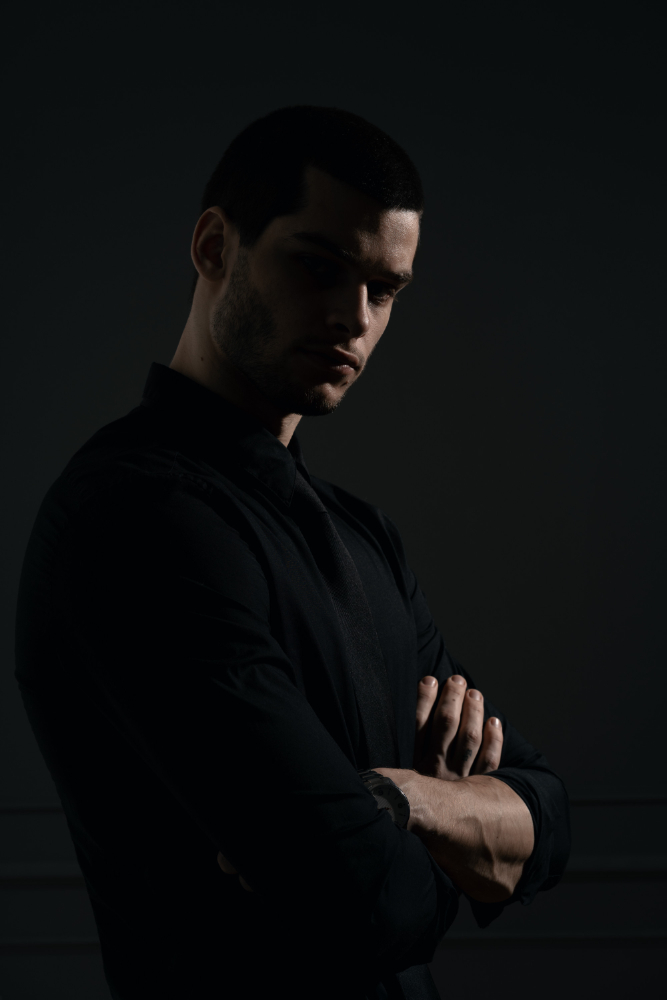
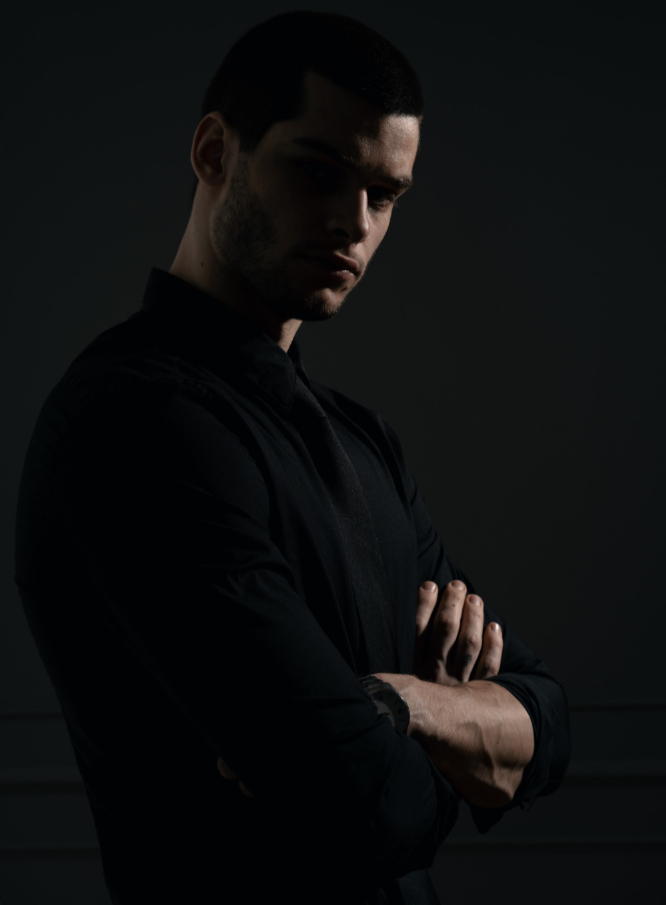
commit

diff --git a/assets/css/main.css b/assets/css/main.css
@@ -12060,6 +12060,7 @@ body {
 
 .theme-para {
   font-size: clamp(1.2rem, 2vw, 1.5rem);
+  color: rgb(167, 167, 167);
 }
 
 .theme-button {
@@ -12096,8 +12097,11 @@ body {
   z-index: 100;
   background-color: rgb(12, 12, 12);
 }
+.main-navbar img {
+  height: clamp(2rem, 5vw, 3rem);
+}
 .main-navbar ul li:not(:last-child) {
-  margin-right: 3rem;
+  margin-right: 2.5rem;
 }
 .main-navbar ul li a {
   color: #fff;
@@ -12109,7 +12113,7 @@ section.main-hero-section {
   min-height: 100vh;
   display: flex;
   align-items: center;
-  padding: 5rem 0;
+  padding: 3rem 0;
   margin-top: 4.5rem;
 }
 section.main-hero-section .hero-inner {
@@ -12137,7 +12141,7 @@ section.main-hero-section .hero-inner video {
   height: 100%;
   border-radius: 20px;
   border: 1px solid rgb(167, 167, 167);
-  padding: 2rem;
+  padding: 3rem;
   display: flex;
   flex-direction: column;
   align-items: flex-start;
@@ -12145,14 +12149,16 @@ section.main-hero-section .hero-inner video {
 .main-hero-left figure {
   aspect-ratio: 1/1.1;
   width: 100%;
-  border-radius: 20px;
   overflow: hidden;
 }
 .main-hero-left figure img {
+  border-radius: 20px;
   width: 100%;
   height: 100%;
   -o-object-fit: cover;
      object-fit: cover;
+  -o-object-position: top;
+     object-position: top;
 }
 .main-hero-left .info {
   color: rgb(167, 167, 167);
@@ -12174,20 +12180,47 @@ section.main-hero-section .hero-inner video {
 .main-hero-right .main-hero-info h1 span, .main-hero-right .main-hero-info .h1 span {
   display: block;
 }
-.main-hero-right .main-hero-info p {
-  color: rgb(167, 167, 167);
-}
 .main-hero-right .main-hero-info .main-hero-section-navigation {
   display: flex;
   gap: 2rem;
 }
 
+section.resume-section .resume-wrapper li {
+  display: flex;
+  align-items: center;
+  justify-content: space-between;
+  position: relative;
+  color: rgb(167, 167, 167);
+  padding-bottom: 2rem;
+  font-size: clamp(1.4rem, 2vw, 2.2rem);
+  text-transform: capitalize;
+}
+section.resume-section .resume-wrapper li:not(:last-child) {
+  margin-bottom: 2rem;
+}
+section.resume-section .resume-wrapper li::after {
+  position: absolute;
+  content: "";
+  bottom: 0;
+  left: 0;
+  width: 100%;
+  height: 2px;
+  background-color: rgb(167, 167, 167);
+}
+
 @media (max-width: 991px) {
   .main-hero-left figure {
-    aspect-ratio: 2/1.3;
+    aspect-ratio: 1/0.7;
   }
-  .main-hero-left figure img {
-    -o-object-position: top;
-       object-position: top;
+  .main-hero-right {
+    margin-top: 6rem;
+  }
+}
+@media (max-width: 768px) {
+  section.resume-section .resume-wrapper li {
+    display: block;
+  }
+  section.resume-section .resume-wrapper li span {
+    display: block;
   }
 }/*# sourceMappingURL=main.css.map */

diff --git a/assets/css/main.scss b/assets/css/main.scss
@@ -11,10 +11,14 @@
     z-index: 100;
     background-color: $navbar-color;
 
+    img{
+    height: clamp(2rem, 5vw, 3rem);
+    }
+
     ul{
         li{
             &:not(:last-child){
-                margin-right: 3rem;
+                margin-right: 2.5rem;
             }
             a{
                 color: $white-color;
@@ -31,7 +35,7 @@ section.main-hero-section {
     min-height: 100vh;
     display: flex;
     align-items: center;
-    padding: 5rem 0;
+    padding: 3rem 0;
     margin-top: 4.5rem;
 
     .hero-inner{
@@ -60,7 +64,7 @@ section.main-hero-section {
   height: 100%;
   border-radius: 20px;
   border: 1px solid $para-text-color;;
-  padding: 2rem;
+  padding: 3rem;
   display: flex;
   flex-direction: column;
   align-items: flex-start;
@@ -68,12 +72,13 @@ section.main-hero-section {
   figure {
     aspect-ratio: 1/1.1;
     width: 100%;
-    border-radius: 20px;
     overflow: hidden;
     img {
+          border-radius: 20px;
       width: 100%;
       height: 100%;
       object-fit: cover;
+      object-position: top;
     }
   }
   .info {
@@ -100,15 +105,42 @@ section.main-hero-section {
         display: block;
       }
     }
-    p{
-            color: $para-text-color;
-    }
     .main-hero-section-navigation{
         display: flex;
         gap: 2rem;
     }
   }
 }
+
+
+section.resume-section{
+.resume-wrapper{
+  li{
+    display: flex;
+    align-items: center;
+    justify-content: space-between;
+    position: relative;
+    color: $para-text-color;
+    padding-bottom: 2rem;
+    font-size: clamp(1.4rem, 2vw, 2.2rem);
+    text-transform: capitalize;
+    &:not(:last-child){
+      margin-bottom: 2rem;
+    }
+
+    &::after{
+      position: absolute;
+      content: '';
+      bottom: 0;
+      left: 0;
+      width: 100%;
+      height: 2px;
+      background-color: $para-text-color;
+    }
+  }
+}
+}
+
 
 
 

diff --git a/index.html b/index.html
@@ -3,7 +3,7 @@
   <head>
     <meta charset="utf-8" />
     <meta name="viewport" content="width=device-width, initial-scale=1" />
-    <title>Bootstrap demo</title>
+    <title>Personal Portfolio</title>
     <link rel="stylesheet" href="assets/css/main.css" />
   </head>
   <body>
@@ -12,7 +12,7 @@
         <nav class="navbar navbar-expand-lg main-navbar">
           <div class="container container-lg">
             <a class="navbar-brand" href="#"
-              ><img class="site-logo" src="assets/images/main-logo.svg" alt=""
+              ><img class="site-logo" src="assets/images/main-logo.png" alt=""
             /></a>
             <button
               class="navbar-toggler"
@@ -152,9 +152,8 @@
                 <div class="col-inner">
                   <div class="main-hero-info">
                     <h4 class="section-starter-info-box">hello</h4>
-                    <h1 class="pb-3 theme-gradient-text-white">
-                      Helping Businesses<span>Grow Through</span
-                      ><span class="theme-gradient-text-purple">Digital Innovation</span>
+                    <h1 class="pb-3 theme-gradient-text-white">Engineering Web<span>Applications That</span
+                      ><span class="theme-gradient-text-purple">Power Businesses</span>
                     </h1>
                     <p class="theme-para">
                       A Digital Designer and Web Developer based in Los Angeles.
@@ -182,15 +181,36 @@
           <!-- /.container -->
         </section>
         <!-- /.main-hero-section -->
-        <div class="about-section">
-          <div class="container container-lg">
+         <section class="about-section section-space">
+           <div class="container container-lg">
                     <h4 class="section-starter-info-box">about</h4>
-                    <div class="section-heading">
+                    <div class="section-heading pb-3">
                       <h3 class="theme-gradient-text-white">My Journey & <span class="theme-gradient-text-purple">Vision</span></h3>
                     </div><!-- /.section-heading -->
+                    <p class="theme-para pb-4">Hi, I’m Muhammad Qasim — a Full Stack Developer focused on building scalable web applications using modern technologies like React and Django. I enjoy turning ideas into real, functional products that solve practical problems. My strength lies in combining frontend experience with backend logic to build smooth, efficient, and user-friendly digital systems.</p>
+                    <p class="theme-para">Over time, I’ve worked on different personal and project-based applications including eCommerce platforms, rental systems, and AI-powered tools. I care about writing clean code, building secure systems, and continuously improving performance and user experience.</p>
           </div>
-        </div>
-        <!-- /.about-section -->
+         </section><!-- /.about-section -->
+         <section class="resume-section section-space">
+           <div class="container container-lg">
+                                <h4 class="section-starter-info-box">resume</h4>
+                    <div class="section-heading pb-5">
+                      <h3 class="theme-gradient-text-white">Creative Thinker <span class="theme-gradient-text-purple">Designer, Innovator</span></h3>
+                    </div><!-- /.section-heading -->
+                    <ul class="resume-wrapper">
+                      <li><span>graphic designing</span><span>tabontech</span><span>Feb 2022 - April 2022</span></li>
+                      <li><span>Frontend Development</span><span>SuperTech Institute</span><span>Oct 2024 - Jul 2025</span></li>
+                    </ul><!-- /.resume-wrapper -->
+           </div>
+         </section><!-- /.resume-section -->
+         <section class="service-section">
+             <div class="container container-lg">
+                <h4 class="section-starter-info-box">service</h4>
+                    <div class="section-heading pb-5">
+                      <h3 class="theme-gradient-text-white">Solutions That <span class="theme-gradient-text-purple">Empower Your Brand</span></h3>
+                    </div><!-- /.section-heading -->
+             </div>
+         </section><!-- /.service-section -->
       </main>
       <!-- /.main-content -->
       <footer class="footer"></footer>

diff --git a/assets/css/partials/_mediaqueries.scss b/assets/css/partials/_mediaqueries.scss
@@ -1,10 +1,27 @@
 @media (max-width: 991px){
     .main-hero-left {
+
   figure {
-    aspect-ratio: 2/1.3;
-    img{
-      object-position: top;
+    aspect-ratio: 1/.7;
+}
+}
+
+.main-hero-right {
+  margin-top: 6rem;
+}
+}
+
+
+
+@media (max-width: 768px){
+section.resume-section{
+.resume-wrapper{
+  li{
+    display: block;
+    span{
+      display: block;
     }
+}
 }
 }
 }

diff --git a/assets/css/partials/_base.scss b/assets/css/partials/_base.scss
@@ -108,6 +108,7 @@ body {
 
 .theme-para{
     font-size: clamp(1.2rem, 2vw, 1.5rem);
+    color: $para-text-color;
 
 }
 